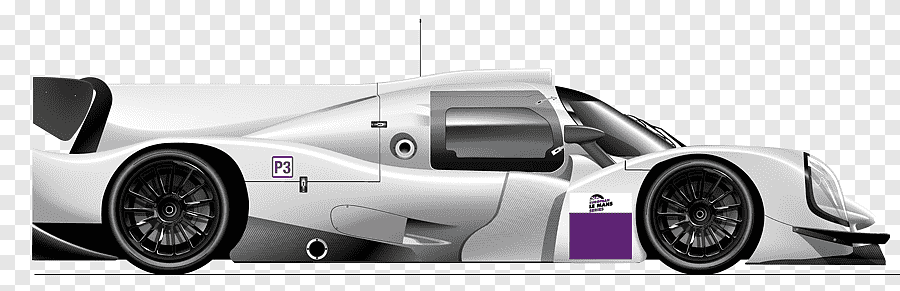
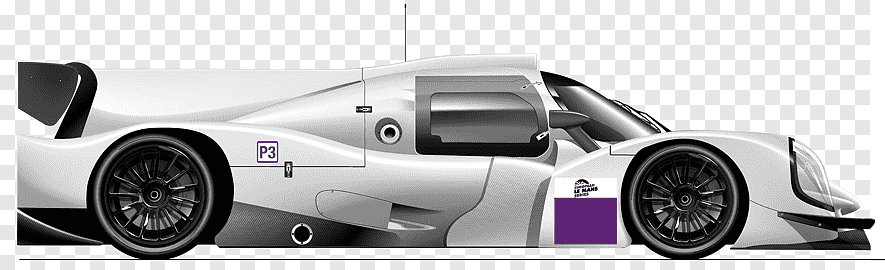
fix(endurance): transparent car cutout + racy Le Mans track line
- Strip the opaque white box from the prototype PNG (flood-fill from
  edges so the white car body survives, then crop tight to the car).
- Redesign the road: accent/white Le Mans kerbs top+bottom, bolder
  dashed centre line, chequered start/finish at the flag end.
- Lift the car so it rides on top of the track instead of sinking into it.

diff --git a/src/components/ui/EnduranceTracker.tsx b/src/components/ui/EnduranceTracker.tsx
@@ -125,9 +125,10 @@ export default function EnduranceTracker({ startTime, durationHours, circuitName
           <div className="text-[10px] uppercase tracking-wider" style={{ color: 'var(--pw-text-tertiary)' }}>Elapsed</div>
         </div>
 
-        {/* The lane: a road the hypercar drives along, under a day/night sky.
+        {/* The lane: the Circuit de la Sarthe straight the prototype runs down,
+            under a day/night sky. Kerbs + centre line + a chequered finish.
             Sun rises/sets and the moon rides the night at the real fractions. */}
-        <div className="relative flex-1 h-10">
+        <div className="relative flex-1 h-12">
           {/* Celestial marks above the road */}
           {inRange(sunsetFrac) && (
             <span className="absolute top-0 -translate-x-1/2 pointer-events-none" style={{ left: `${sunsetFrac * 100}%` }}><Sun size={15} horizon /></span>
@@ -139,20 +140,15 @@ export default function EnduranceTracker({ startTime, durationHours, circuitName
             <span className="absolute top-0 -translate-x-1/2 pointer-events-none" style={{ left: `${sunriseFrac * 100}%` }}><Sun size={15} horizon /></span>
           )}
 
-          {/* Road surface (day/night tinted) */}
-          <div className="absolute left-0 right-0 rounded-full overflow-hidden" style={{ bottom: 2, height: 9, background: trackBg, border: '1px solid var(--pw-glass-border)' }}>
+          {/* Track surface (day/night tinted asphalt) */}
+          <div className="absolute left-0 right-0 rounded-md overflow-hidden" style={{ bottom: 2, height: 14, background: trackBg, border: '1px solid var(--pw-glass-border)' }}>
             {/* Travelled portion, brightened with accent */}
             <motion.div
               className="absolute left-0 top-0 bottom-0"
-              style={{ background: `linear-gradient(90deg, ${accent}38, ${accent}14)` }}
+              style={{ background: `linear-gradient(90deg, ${accent}3a, ${accent}12)` }}
               initial={false}
               animate={{ width: `${pct}%` }}
               transition={{ type: 'spring', stiffness: 60, damping: 20 }}
-            />
-            {/* Dashed centre line */}
-            <div
-              className="absolute left-2 right-2 top-1/2 -translate-y-1/2 h-px pointer-events-none"
-              style={{ backgroundImage: 'repeating-linear-gradient(90deg, rgba(255,255,255,0.5) 0 5px, transparent 5px 13px)', opacity: 0.35 }}
             />
             {/* Hour posts */}
             {Array.from({ length: durationHours - 1 }, (_, i) => (
@@ -162,16 +158,35 @@ export default function EnduranceTracker({ startTime, durationHours, circuitName
                 style={{
                   left: `${((i + 1) / durationHours) * 100}%`,
                   background: 'rgba(255,255,255,0.22)',
-                  opacity: (i + 1) % 6 === 0 ? 0.85 : 0.28,
+                  opacity: (i + 1) % 6 === 0 ? 0.8 : 0.22,
                 }}
               />
             ))}
+            {/* Dashed racing centre line */}
+            <div
+              className="absolute left-2 right-2 top-1/2 -translate-y-1/2 pointer-events-none"
+              style={{ height: 2, backgroundImage: 'repeating-linear-gradient(90deg, rgba(255,255,255,0.85) 0 7px, transparent 7px 18px)', opacity: 0.5 }}
+            />
+            {/* Le Mans kerbs — top + bottom, offset half-phase */}
+            <div
+              className="absolute left-0 right-0 top-0 pointer-events-none"
+              style={{ height: 2.5, backgroundImage: `repeating-linear-gradient(90deg, ${accent} 0 6px, #eef2f8 6px 12px)`, opacity: 0.9 }}
+            />
+            <div
+              className="absolute left-0 right-0 bottom-0 pointer-events-none"
+              style={{ height: 2.5, backgroundImage: `repeating-linear-gradient(90deg, #eef2f8 0 6px, ${accent} 6px 12px)`, opacity: 0.9 }}
+            />
+            {/* Chequered start/finish at the flag end */}
+            <div
+              className="absolute right-0 top-0 bottom-0 pointer-events-none"
+              style={{ width: 6, backgroundImage: 'repeating-conic-gradient(#0b0d12 0 25%, #eef2f8 0 50%)', backgroundSize: '6px 6px', opacity: 0.85 }}
+            />
           </div>
 
-          {/* The prototype, on the road at the current position */}
+          {/* The prototype, riding on the road at the current position */}
           <motion.div
             className="absolute pointer-events-none"
-            style={{ bottom: 4 }}
+            style={{ bottom: 13 }}
             initial={false}
             animate={{ left: `${pct}%` }}
             transition={{ type: 'spring', stiffness: 60, damping: 20 }}
@@ -182,11 +197,10 @@ export default function EnduranceTracker({ startTime, durationHours, circuitName
                 <div
                   className="absolute pointer-events-none"
                   style={{
-                    right: -14,
-                    top: '38%',
-                    width: 22,
+                    right: -16,
+                    bottom: 1,
+                    width: 24,
                     height: 12,
-                    transform: 'translateY(-50%)',
                     background: 'radial-gradient(ellipse at left center, rgba(255,243,200,0.85), rgba(255,243,200,0) 72%)',
                   }}
                 />
@@ -194,15 +208,15 @@ export default function EnduranceTracker({ startTime, durationHours, circuitName
               <img
                 src="/endurance-car.png"
                 alt=""
-                width={50}
+                width={54}
                 height={16}
                 style={{
                   display: 'block',
-                  width: 50,
+                  width: 54,
                   height: 'auto',
                   filter: isNight
-                    ? 'brightness(0.72) saturate(0.9) drop-shadow(0 1px 2px rgba(0,0,0,0.5))'
-                    : 'drop-shadow(0 1px 2px rgba(0,0,0,0.45))',
+                    ? 'brightness(0.72) saturate(0.9) drop-shadow(0 2px 3px rgba(0,0,0,0.55))'
+                    : 'drop-shadow(0 2px 3px rgba(0,0,0,0.5))',
                 }}
               />
             </div>